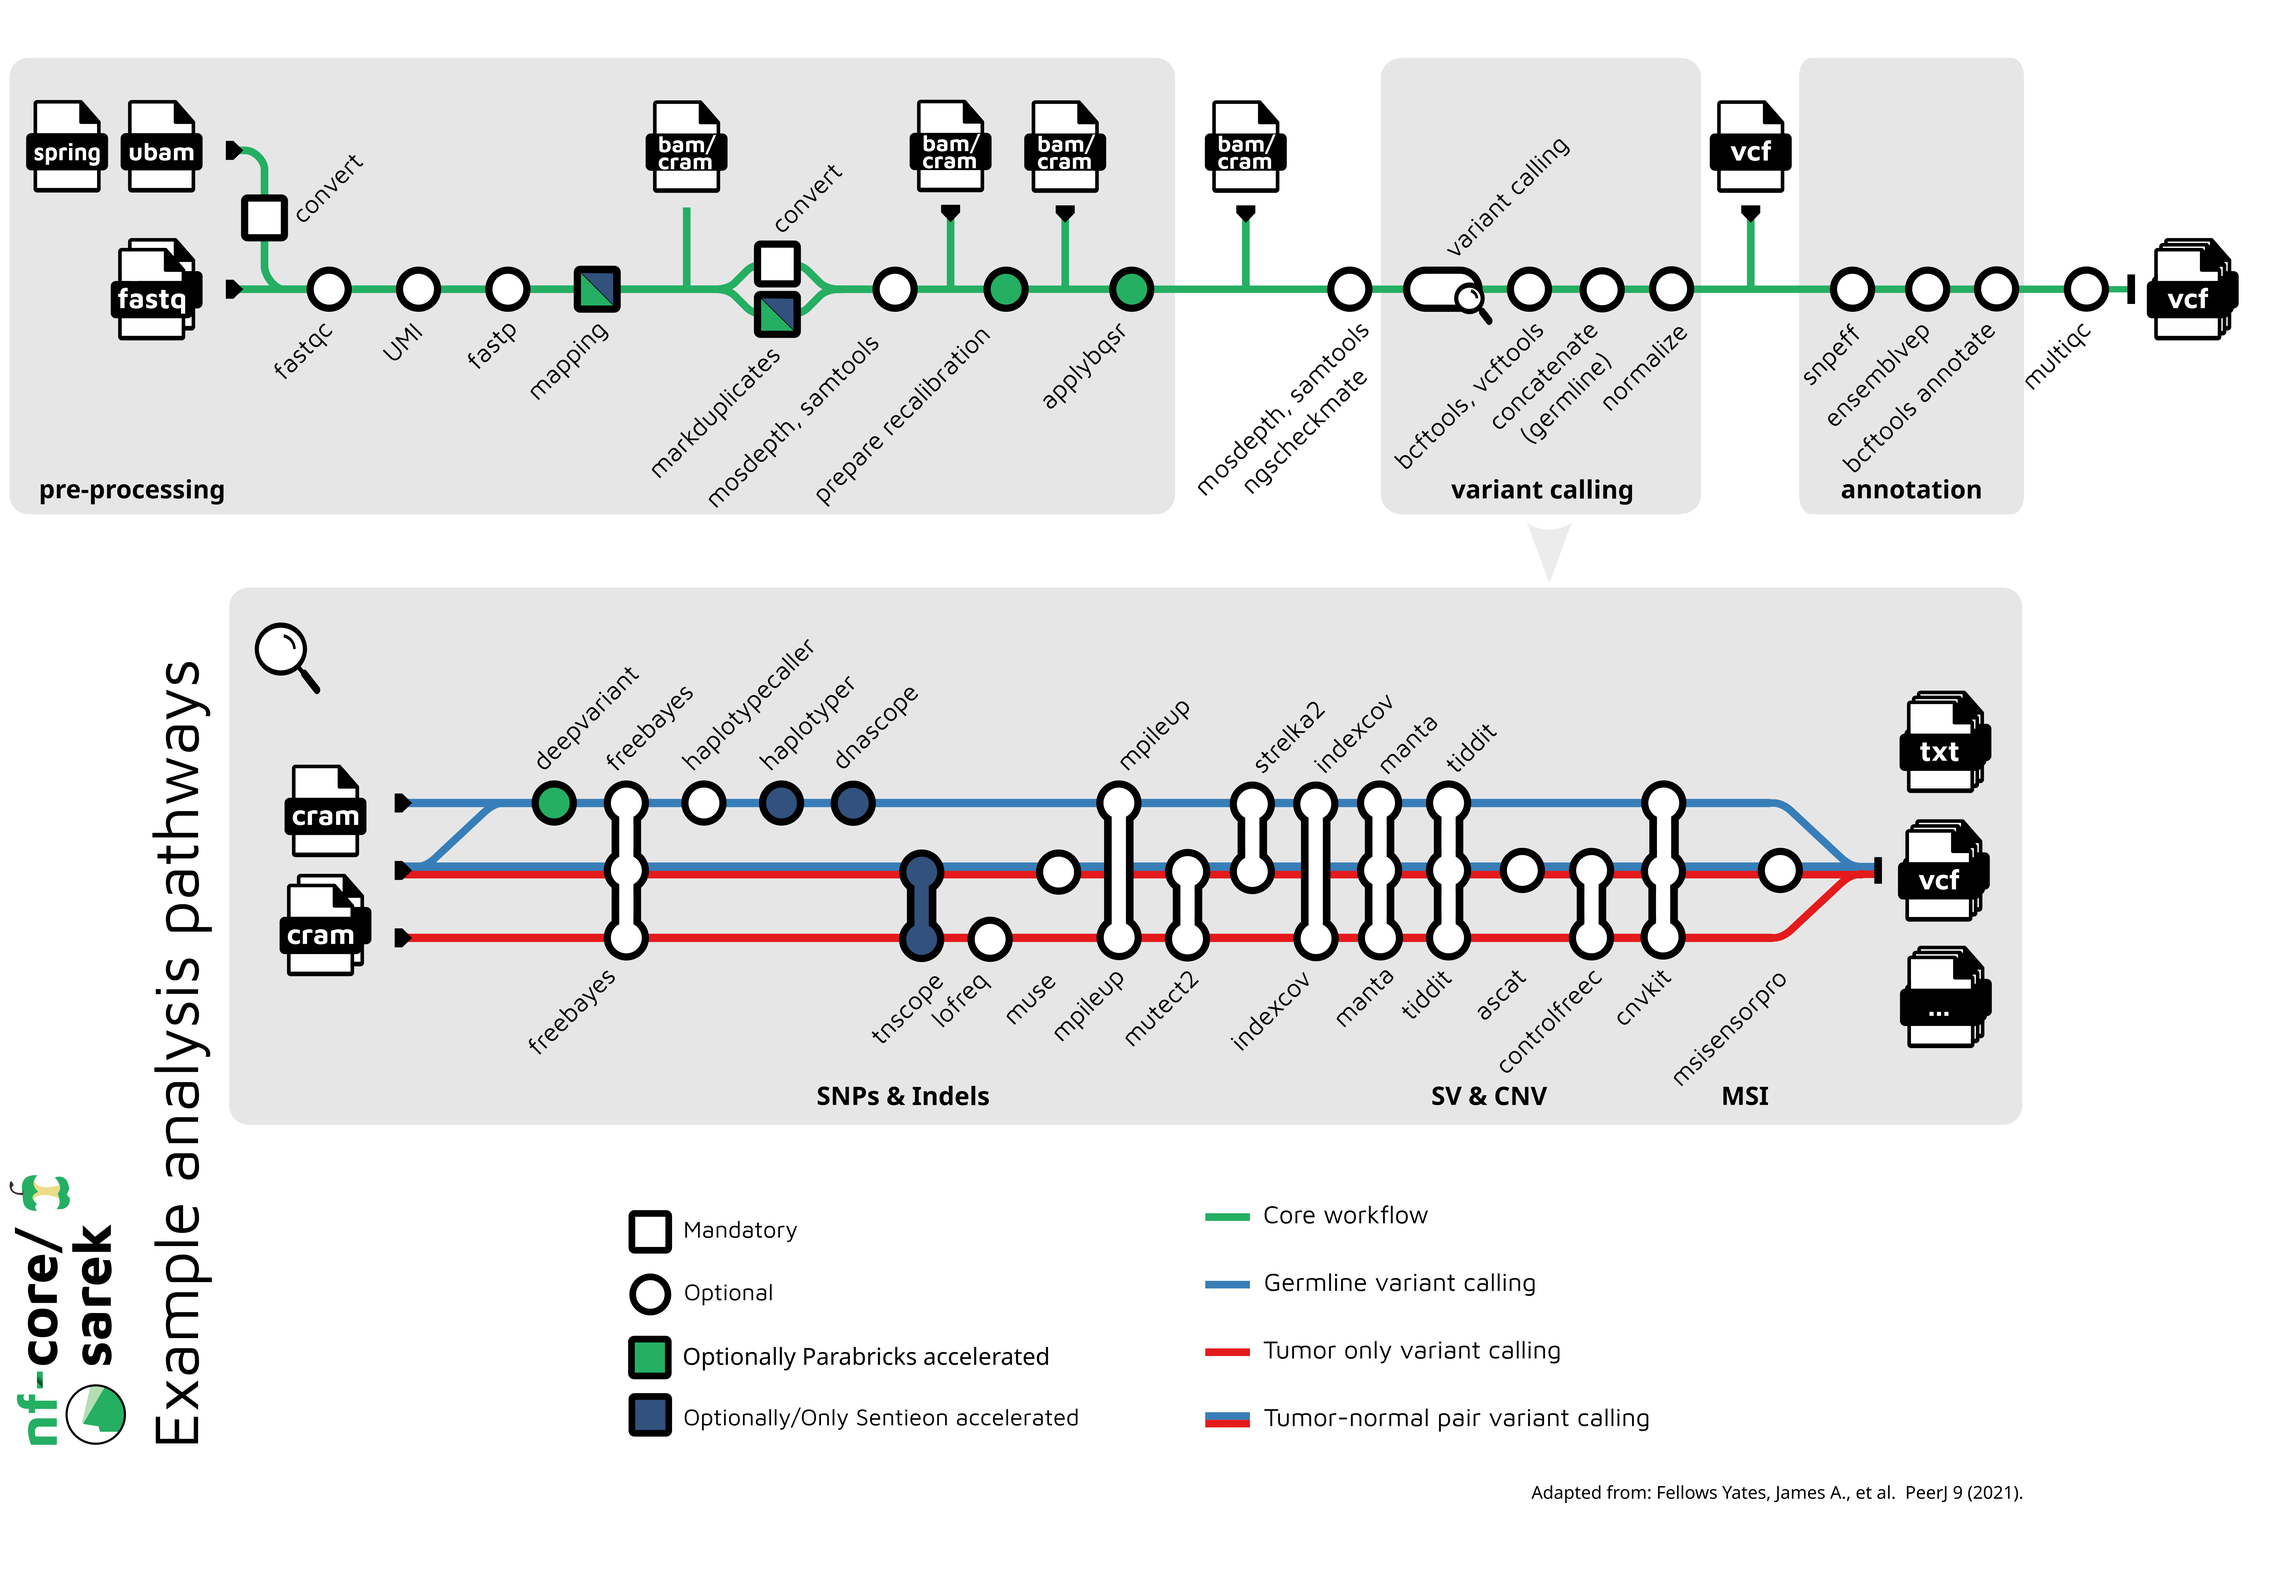
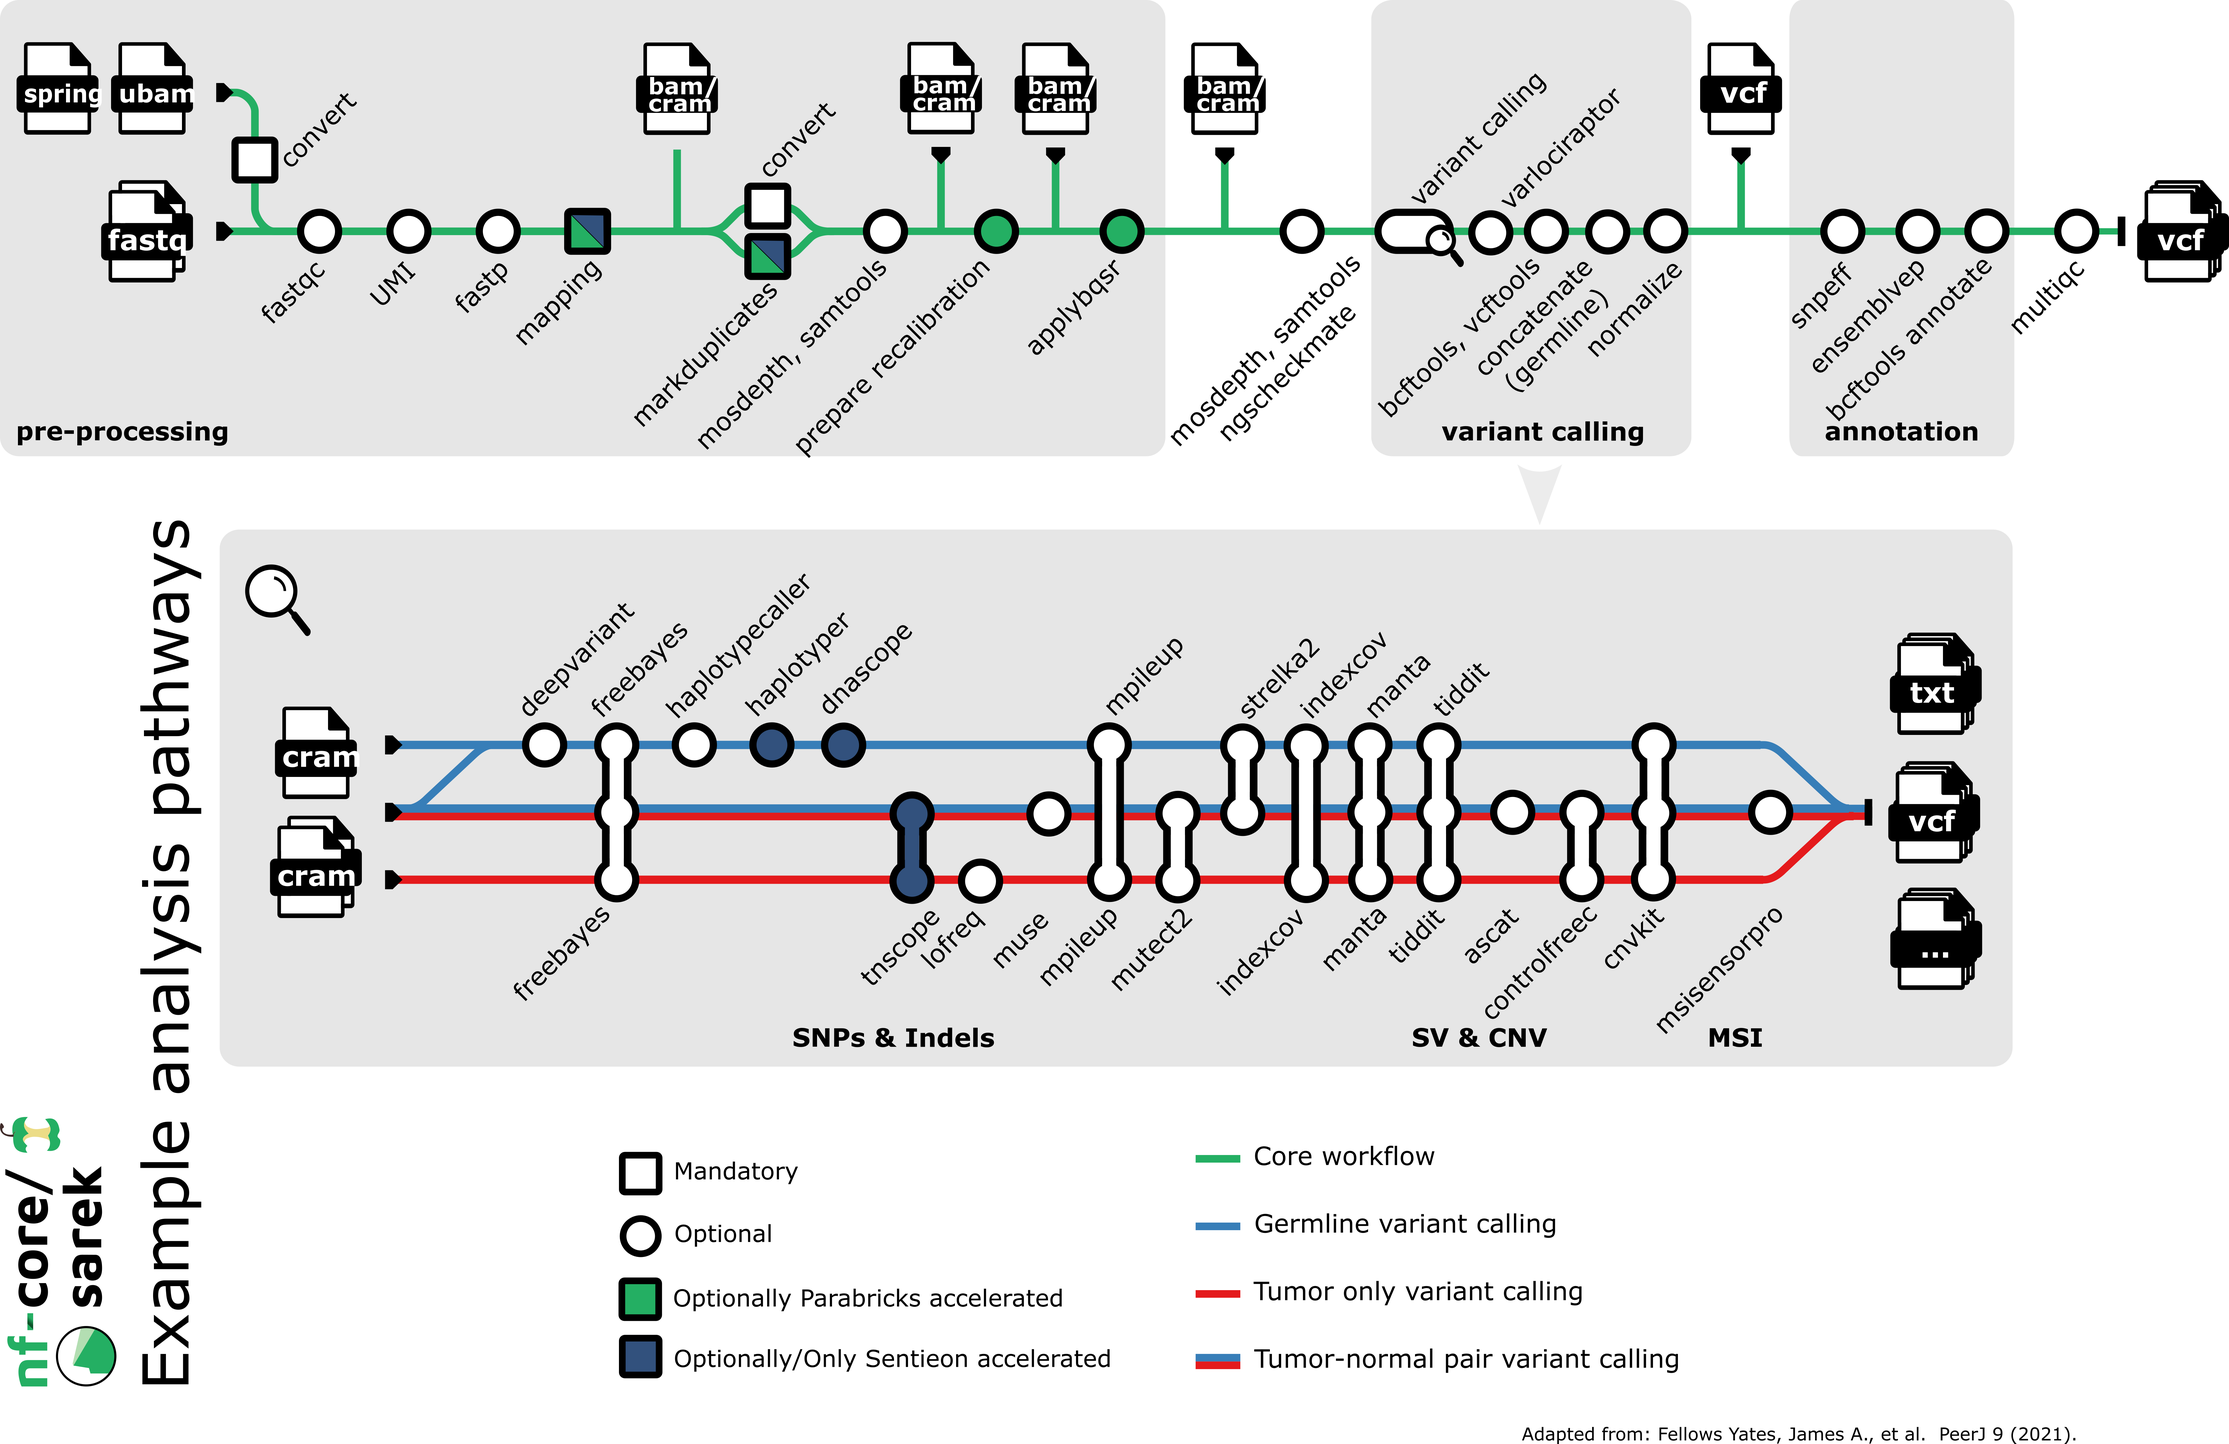
subway and changelog

Changed region(s): [[0.0, 0.0, 1.0, 0.9665], [0.5291, 0.8418, 0.7159, 0.9041], [0.5291, 0.9353, 0.7782, 0.9977]]

diff --git a/CHANGELOG.md b/CHANGELOG.md
@@ -18,6 +18,7 @@ and this project adheres to [Semantic Versioning](https://semver.org/spec/v2.0.0
 - [1856](https://github.com/nf-core/sarek/pull/1856) - Added early failure when more than 1 normal sample per patient is provided for somatic variant calling
 - [1904](https://github.com/nf-core/sarek/pull/1904) - Icon support
 - [1934](https://github.com/nf-core/sarek/pull/1934) - Add sentieon TNscope for tumour/normal variant calling
+- [1940](https://github.com/nf-core/sarek/pull/1940) - Add varlociraptor for variant calling
 
 ### Changed
 
